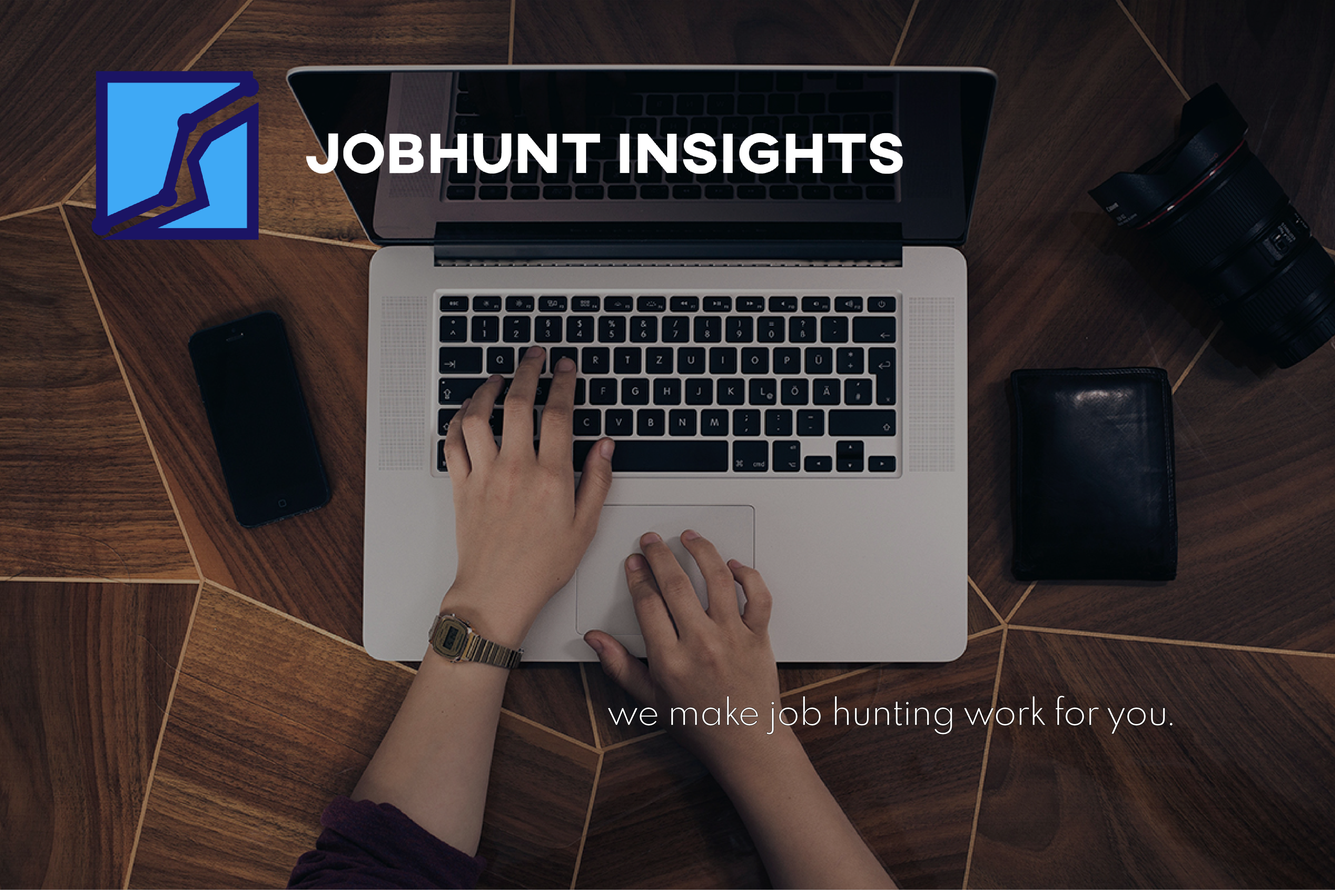
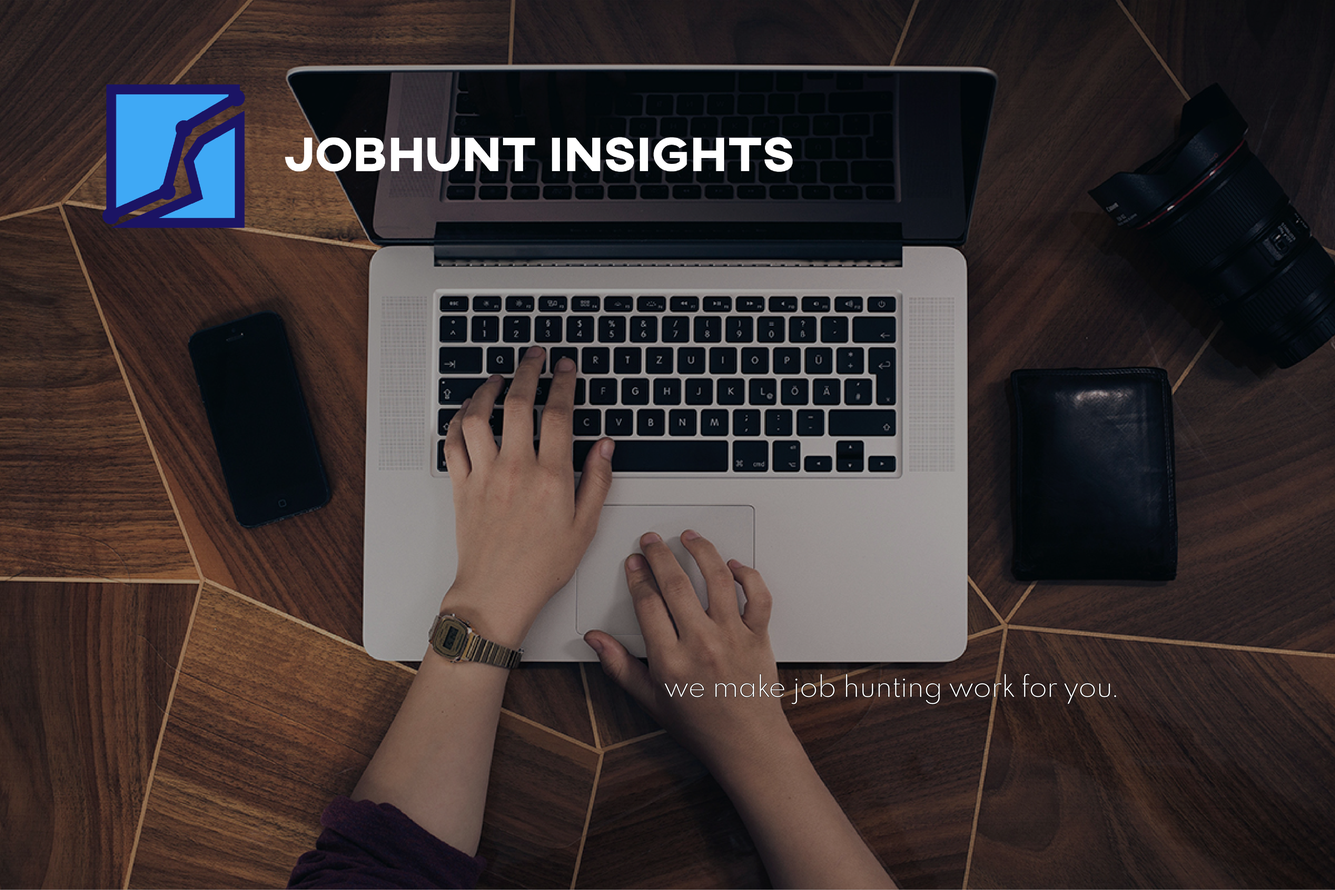
Landing page 1st page successfully full sized

Changed region(s): [[0.0624, 0.0624, 0.6864, 0.2807], [0.4992, 0.7487, 0.8736, 0.811]]

diff --git a/src/app/components/landing/landing.component.scss b/src/app/components/landing/landing.component.scss
@@ -3,11 +3,11 @@
 	overflow-x: hidden;
 
 	.image-wrapper {
-		width: 1920px;
-		height: 990px;
 		background-image: url('../../../assets/img/laptop_final.png');
-		background-size: 100vw 100vh;
+		height: 1000px;
+		width: 100%;
 		background-repeat: no-repeat;
+		background-size: cover;
 
 		.row {
 			padding-top: 20%;
